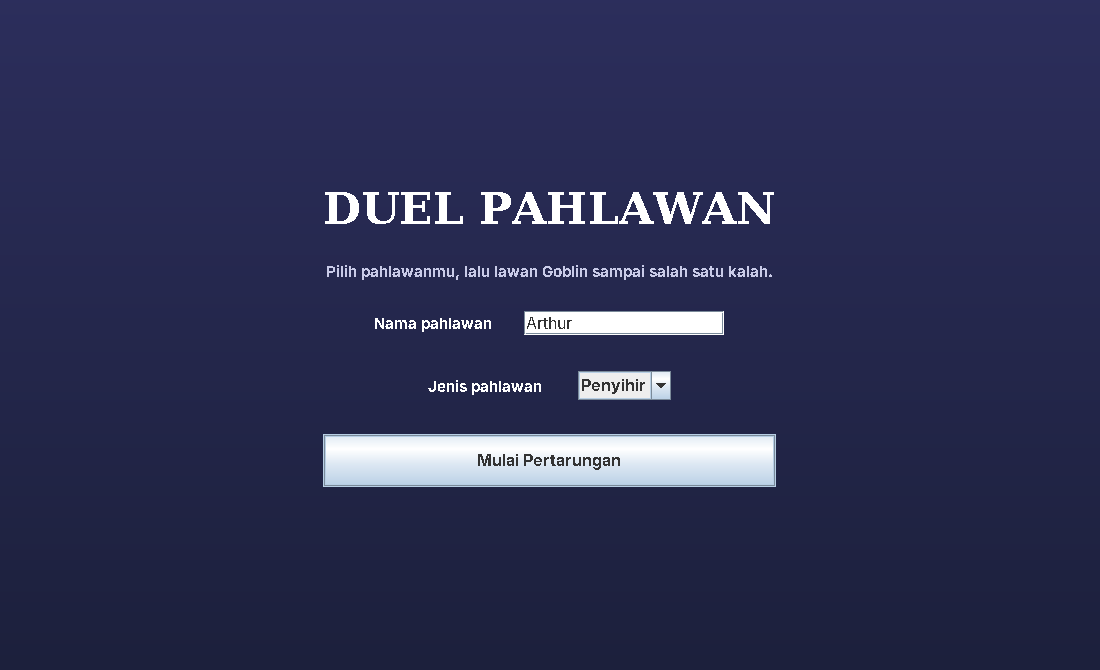
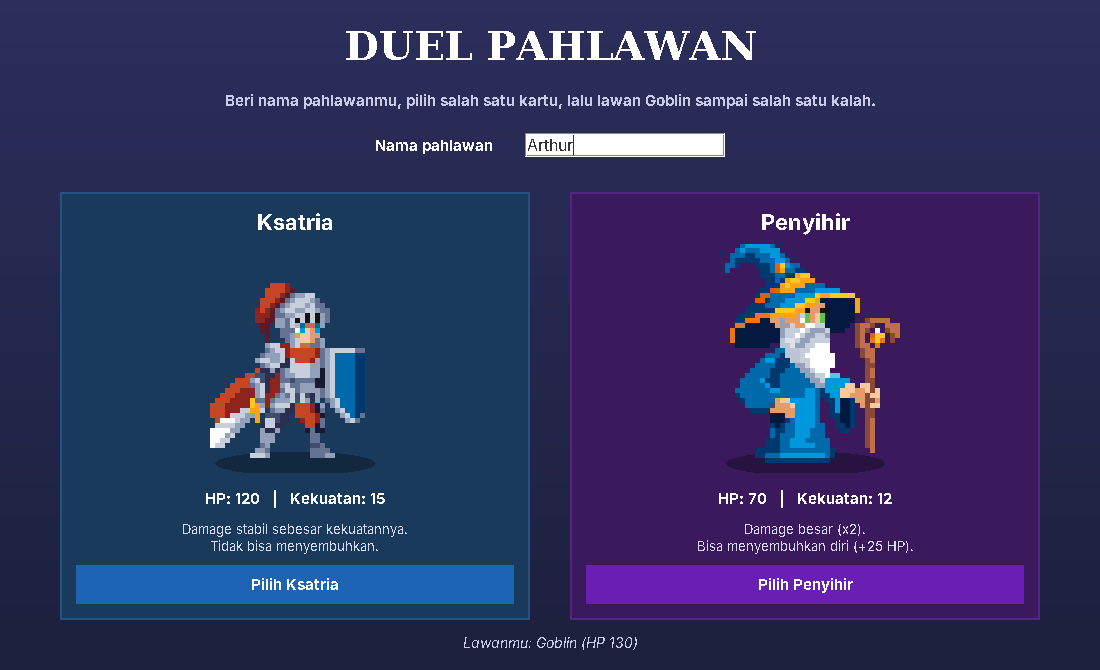
Add character selection cards to the start screen
- Add KartuKarakter: a card with an animated idle sprite, stats read from
  the Karakter model, a short description, and a Pick button
- Replace the combo box on the start screen with two cards; the name field
  and its validation stay
- Update README, screenshot, and class list

Card design idea from Fardizza's pull request (#2).

diff --git a/src/duelpahlawan/ui/JendelaUtama.java b/src/duelpahlawan/ui/JendelaUtama.java
@@ -9,7 +9,6 @@ import duelpahlawan.model.Pertarungan;
 
 import javax.swing.BorderFactory;
 import javax.swing.JButton;
-import javax.swing.JComboBox;
 import javax.swing.JFrame;
 import javax.swing.JLabel;
 import javax.swing.JOptionPane;
@@ -55,8 +54,6 @@ public class JendelaUtama extends JFrame {
 
     // komponen halaman pemilihan pahlawan
     private final JTextField fieldNama = new JTextField("Arthur", 14);
-    private final JComboBox<String> comboJenis = new JComboBox<>(new String[]{"Ksatria", "Penyihir"});
-    private final JButton tombolMulai = new JButton("Mulai Pertarungan");
 
     // komponen halaman pertarungan
     private final JPanel arena = new JPanel(new GridLayout(1, 2));
@@ -79,7 +76,6 @@ public class JendelaUtama extends JFrame {
         isi.add(buatHalamanDuel(), KARTU_DUEL);
         add(isi);
 
-        tombolMulai.addActionListener(e -> klikMulai());
         tombolSerang.addActionListener(e -> klikSerang());
         tombolSembuhkan.addActionListener(e -> klikSembuhkan());
         tombolUlangi.addActionListener(e -> klikUlangi());
@@ -92,7 +88,7 @@ public class JendelaUtama extends JFrame {
     // ------------------------------------------------------------ susunan tampilan
 
     private JPanel buatHalamanPilih() {
-        JPanel latar = new JPanel(new GridBagLayout()) {
+        JPanel latar = new JPanel(new BorderLayout(0, 14)) {
             @Override
             protected void paintComponent(Graphics g) {
                 super.paintComponent(g);
@@ -102,28 +98,44 @@ public class JendelaUtama extends JFrame {
             }
         };
         latar.setPreferredSize(new Dimension(1100, 670));
+        latar.setBorder(BorderFactory.createEmptyBorder(22, 60, 18, 60));
 
-        JPanel form = new JPanel(new GridLayout(0, 1, 0, 10));
-        form.setOpaque(false);
+        // bagian atas: judul, petunjuk, dan input nama
+        JPanel atas = new JPanel(new GridLayout(0, 1, 0, 6));
+        atas.setOpaque(false);
 
         JLabel judul = new JLabel("DUEL PAHLAWAN", SwingConstants.CENTER);
-        judul.setFont(new Font(Font.SERIF, Font.BOLD, 44));
+        judul.setFont(new Font(Font.SERIF, Font.BOLD, 40));
         judul.setForeground(Color.WHITE);
-        form.add(judul);
+        atas.add(judul);
 
-        JLabel petunjuk = new JLabel("Pilih pahlawanmu, lalu lawan Goblin sampai salah satu kalah.", SwingConstants.CENTER);
+        JLabel petunjuk = new JLabel("Beri nama pahlawanmu, pilih salah satu kartu, lalu lawan Goblin sampai salah satu kalah.",
+                SwingConstants.CENTER);
         petunjuk.setFont(petunjuk.getFont().deriveFont(15f));
         petunjuk.setForeground(new Color(0xC9CBE8));
-        form.add(petunjuk);
+        atas.add(petunjuk);
 
         fieldNama.setFont(fieldNama.getFont().deriveFont(16f));
-        comboJenis.setFont(comboJenis.getFont().deriveFont(16f));
-        form.add(barisForm("Nama pahlawan", fieldNama));
-        form.add(barisForm("Jenis pahlawan", comboJenis));
+        atas.add(barisForm("Nama pahlawan", fieldNama));
+        latar.add(atas, BorderLayout.NORTH);
 
-        tombolMulai.setFont(tombolMulai.getFont().deriveFont(Font.BOLD, 16f));
-        form.add(tombolMulai);
-        latar.add(form);
+        // tengah: kartu pilihan pahlawan (object contoh hanya untuk membaca statistik dan sprite)
+        JPanel daftarKartu = new JPanel(new GridLayout(1, 2, 40, 0));
+        daftarKartu.setOpaque(false);
+        daftarKartu.add(new KartuKarakter(new Ksatria("Contoh"),
+                "Damage stabil sebesar kekuatannya.<br>Tidak bisa menyembuhkan.",
+                new Color(0x1A3A5C), new Color(0x1E64B4), () -> klikMulai("Ksatria")));
+        daftarKartu.add(new KartuKarakter(new Penyihir("Contoh"),
+                "Damage besar (x2).<br>Bisa menyembuhkan diri (+25 HP).",
+                new Color(0x3A1A5C), new Color(0x6A1FB4), () -> klikMulai("Penyihir")));
+        latar.add(daftarKartu, BorderLayout.CENTER);
+
+        // bawah: keterangan lawan
+        Monster contohLawan = new Monster("Goblin");
+        JLabel infoLawan = new JLabel("Lawanmu: Goblin (HP " + contohLawan.getHpMaks() + ")", SwingConstants.CENTER);
+        infoLawan.setFont(infoLawan.getFont().deriveFont(Font.ITALIC, 14f));
+        infoLawan.setForeground(new Color(0xC9CBE8));
+        latar.add(infoLawan, BorderLayout.SOUTH);
         return latar;
     }
 
@@ -174,11 +186,11 @@ public class JendelaUtama extends JFrame {
 
     // ------------------------------------------------------------ aksi tombol
 
-    private void klikMulai() {
+    private void klikMulai(String jenis) {
         String nama = fieldNama.getText().trim();
         try {
             // polymorphism: reference Karakter menunjuk object Ksatria atau Penyihir
-            Karakter pahlawan = "Penyihir".equals(comboJenis.getSelectedItem())
+            Karakter pahlawan = "Penyihir".equals(jenis)
                     ? new Penyihir(nama)
                     : new Ksatria(nama);
             pertarungan = new Pertarungan(pahlawan, new Monster("Goblin"));

diff --git a/src/duelpahlawan/ui/KartuKarakter.java b/src/duelpahlawan/ui/KartuKarakter.java
@@ -1,0 +1,121 @@
+package duelpahlawan.ui;
+
+import duelpahlawan.model.Karakter;
+
+import javax.swing.BorderFactory;
+import javax.swing.JButton;
+import javax.swing.JLabel;
+import javax.swing.JPanel;
+import javax.swing.SwingConstants;
+import javax.swing.Timer;
+import java.awt.BorderLayout;
+import java.awt.Color;
+import java.awt.Cursor;
+import java.awt.Dimension;
+import java.awt.Font;
+import java.awt.Graphics;
+import java.awt.Graphics2D;
+import java.awt.GridLayout;
+import java.awt.RenderingHints;
+import java.awt.image.BufferedImage;
+
+/**
+ * Kartu pilihan pahlawan: nama, sprite idle beranimasi, statistik, deskripsi,
+ * dan tombol Pilih. Statistik diambil dari object Karakter contoh, jadi angkanya
+ * selalu sama dengan yang ada di model.
+ *
+ * Konsep OOP: inheritance (extends JPanel), encapsulation (atribut private),
+ * composition (memiliki AnimasiSprite). Rancangan kartu berasal dari ide Fardizza.
+ */
+public class KartuKarakter extends JPanel {
+
+    private static final int SKALA = 5;
+    private static final int JEDA_FRAME_MS = 90;
+
+    private final AnimasiSprite sprite;
+    private int indeksFrame = 0;
+
+    public KartuKarakter(Karakter contoh, String deskripsi, Color warnaLatar,
+                         Color warnaTombol, Runnable saatDipilih) {
+        this.sprite = AnimasiSprite.untuk(contoh);
+        String jenis = contoh.getClass().getSimpleName();
+
+        setLayout(new BorderLayout(0, 8));
+        setBackground(warnaLatar);
+        setBorder(BorderFactory.createCompoundBorder(
+                BorderFactory.createLineBorder(warnaLatar.brighter(), 2),
+                BorderFactory.createEmptyBorder(14, 14, 14, 14)));
+
+        JLabel labelJenis = new JLabel(jenis, SwingConstants.CENTER);
+        labelJenis.setFont(labelJenis.getFont().deriveFont(Font.BOLD, 22f));
+        labelJenis.setForeground(Color.WHITE);
+
+        JPanel pratinjau = new JPanel() {
+            @Override
+            protected void paintComponent(Graphics g) {
+                super.paintComponent(g);
+                gambarPratinjau((Graphics2D) g, getWidth(), getHeight());
+            }
+        };
+        pratinjau.setOpaque(false);
+
+        JLabel labelStatistik = new JLabel("HP: " + contoh.getHpMaks() + "   |   Kekuatan: " + contoh.getKekuatan(),
+                SwingConstants.CENTER);
+        labelStatistik.setFont(labelStatistik.getFont().deriveFont(Font.BOLD, 15f));
+        labelStatistik.setForeground(Color.WHITE);
+
+        JLabel labelDeskripsi = new JLabel("<html><div style='text-align:center'>" + deskripsi + "</div></html>",
+                SwingConstants.CENTER);
+        labelDeskripsi.setFont(labelDeskripsi.getFont().deriveFont(Font.PLAIN, 13f));
+        labelDeskripsi.setForeground(new Color(0xD8DAF0));
+
+        JButton tombolPilih = new JButton("Pilih " + jenis);
+        tombolPilih.setBackground(warnaTombol);
+        tombolPilih.setForeground(Color.WHITE);
+        tombolPilih.setFont(tombolPilih.getFont().deriveFont(Font.BOLD, 15f));
+        tombolPilih.setFocusPainted(false);
+        tombolPilih.setBorder(BorderFactory.createEmptyBorder(10, 20, 10, 20));
+        tombolPilih.setCursor(Cursor.getPredefinedCursor(Cursor.HAND_CURSOR));
+        tombolPilih.addActionListener(e -> saatDipilih.run());
+
+        JPanel info = new JPanel(new GridLayout(0, 1, 0, 6));
+        info.setOpaque(false);
+        info.add(labelStatistik);
+        info.add(labelDeskripsi);
+
+        JPanel bawah = new JPanel(new BorderLayout(0, 10));
+        bawah.setOpaque(false);
+        bawah.add(info, BorderLayout.CENTER);
+        bawah.add(tombolPilih, BorderLayout.SOUTH);
+
+        add(labelJenis, BorderLayout.NORTH);
+        add(pratinjau, BorderLayout.CENTER);
+        add(bawah, BorderLayout.SOUTH);
+        setPreferredSize(new Dimension(420, 470));
+
+        // animasi idle berulang
+        new Timer(JEDA_FRAME_MS, e -> {
+            indeksFrame = (indeksFrame + 1) % sprite.jumlahFrame(AksiSprite.IDLE);
+            pratinjau.repaint();
+        }).start();
+    }
+
+    /** Menggambar frame idle saat ini, menghadap ke kanan, dengan kaki di dasar area. */
+    private void gambarPratinjau(Graphics2D g, int lebar, int tinggi) {
+        g.setRenderingHint(RenderingHints.KEY_INTERPOLATION, RenderingHints.VALUE_INTERPOLATION_NEAREST_NEIGHBOR);
+        int w = sprite.getLebarFrame();
+        int h = sprite.getTinggiFrame();
+        int x0 = (lebar - w * SKALA) / 2;
+        int y0 = tinggi - 10 - (sprite.getBarisKaki() + 1) * SKALA;
+
+        g.setColor(new Color(0, 0, 0, 80));
+        g.fillOval(lebar / 2 - 80, tinggi - 22, 160, 24);
+
+        BufferedImage gambar = sprite.getFrame(AksiSprite.IDLE, indeksFrame);
+        if (sprite.isMenghadapKanan()) {
+            g.drawImage(gambar, x0, y0, x0 + w * SKALA, y0 + h * SKALA, 0, 0, w, h, null);
+        } else {                                                     // balik horizontal
+            g.drawImage(gambar, x0 + w * SKALA, y0, x0, y0 + h * SKALA, 0, 0, w, h, null);
+        }
+    }
+}

diff --git a/README.md b/README.md
@@ -39,7 +39,7 @@ Pertarungan  o--  2 x Karakter   (aggregation: hero + enemy)
 src/duelpahlawan/
   model/    game logic (Karakter, Ksatria, Penyihir, Monster, Pertarungan, ...)
   ui/       Swing user interface: Main, JendelaUtama, PanelKarakter,
-            AnimasiSprite, AksiSprite, and sprite/ (pixel-art sprite sheets)
+            KartuKarakter, AnimasiSprite, AksiSprite, and sprite/ (pixel-art sprite sheets)
 uji/        console test runner for the model (UjiCoba.java)
 docs/
   diagram/     PlantUML sources: use case, class, sequence, object diagrams
@@ -84,7 +84,7 @@ Each character has pixel-art sprite sheets (horizontal strips of frames): idle, 
 
 ## Screenshots
 
-| Choose a hero | Battle | Result |
+| Choose a hero (name + character cards) | Battle | Result |
 |---|---|---|
 | ![Choose a hero](docs/screenshot/01-pilih-pahlawan.png) | ![Battle](docs/screenshot/02-pertarungan.png) | ![Result](docs/screenshot/03-hasil-akhir.png) |
 
